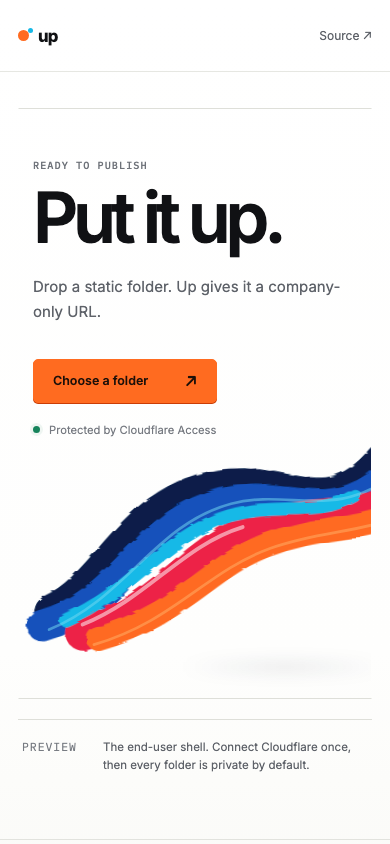
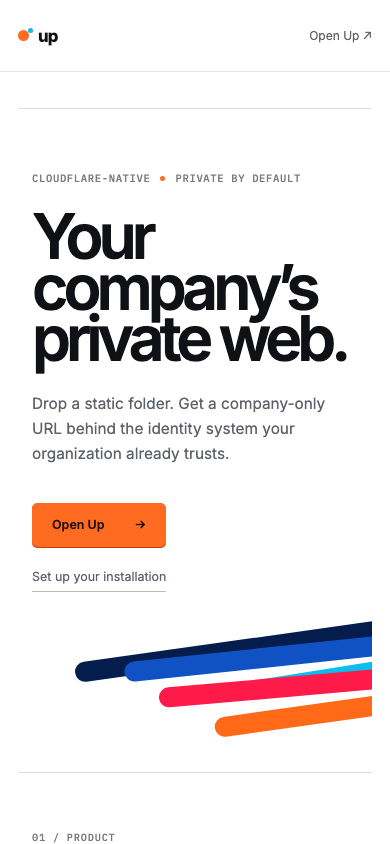
Restructure Up around product-first Diataxis documentation

diff --git a/src/site.svelte b/src/site.svelte
@@ -222,9 +222,9 @@
   <a class="wordmark" href="/" aria-label="Up home"><i aria-hidden="true"></i>up</a>
   <nav aria-label="Primary">
     {#if !isProduct}
-      <a href="/tutorial">Setup</a>
-      <a href="/explanation">Principles</a>
-      <a href="https://github.com/acoyfellow/inhouse">Source ↗</a>
+      <a href="/tutorial">Docs</a>
+      <a href="/explanation">How it works</a>
+      <a href="/app">Open Up ↗</a>
     {:else}
       <span class="identity"><i aria-hidden="true"></i>{identity}</span>
     {/if}
@@ -232,7 +232,67 @@
 </header>
 
 <main class:product={isProduct}>
-  {#if section === 'home' || section === 'app'}
+  {#if section === 'home'}
+    <div class="home-shell">
+      <section class="home-hero" aria-labelledby="home-title">
+        <div class="home-kicker"><span>Cloudflare-native</span><i aria-hidden="true"></i><span>Private by default</span></div>
+        <h1 id="home-title">Your company’s<br />private web.</h1>
+        <p class="home-tagline">Drop a static folder. Get a company-only URL behind the identity system your organization already trusts.</p>
+        <div class="home-actions">
+          <a class="primary link-button" href="/app">Open Up <span aria-hidden="true">→</span></a>
+          <a class="home-secondary" href="/tutorial">Set up your installation</a>
+        </div>
+        <div class="home-signal" aria-hidden="true">
+          <span class="signal-navy"></span><span class="signal-blue"></span><span class="signal-cyan"></span><span class="signal-red"></span><span class="signal-orange"></span>
+        </div>
+      </section>
+
+      <section class="home-intro" aria-labelledby="intro-title">
+        <p class="section-index">01 / PRODUCT</p>
+        <div>
+          <h2 id="intro-title">One installation.<br />Every small site.</h2>
+          <p>Up gives employees and agents one dependable place to publish prototypes, reports, demos, and internal tools. Files stay in private R2. Every request meets Cloudflare Access first.</p>
+        </div>
+      </section>
+
+      <section class="feature-grid" aria-label="Product capabilities">
+        <article><span>01</span><h3>Choose a folder</h3><p>HTML, CSS, JavaScript, and assets. No framework or build system required.</p></article>
+        <article><span>02</span><h3>Publish atomically</h3><p>Every digest is verified before a deployment becomes visible. Partial updates never leak.</p></article>
+        <article><span>03</span><h3>Share inside</h3><p>Each site receives a sibling hostname and inherits the organization’s Access boundary.</p></article>
+        <article><span>04</span><h3>Stay in control</h3><p>The Worker, Durable Object, R2 bucket, DNS, and Access app remain in your account.</p></article>
+      </section>
+
+      <section class="system-model" aria-labelledby="model-title">
+        <p class="section-index">02 / SYSTEM</p>
+        <div>
+          <h2 id="model-title">Folder to private URL.</h2>
+          <div class="model-flow" aria-label="Folder to private URL workflow">
+            <span>static folder</span><i>→</i><span>verified upload</span><i>→</i><span>private R2</span><i>→</i><span>Access URL</span>
+          </div>
+          <ol>
+            <li><strong>Connect</strong><span>Approve Up once in Cloudflare.</span></li>
+            <li><strong>Publish</strong><span>Choose a folder and name the site.</span></li>
+            <li><strong>Prove</strong><span>Verify authenticated content and anonymous denial.</span></li>
+          </ol>
+        </div>
+      </section>
+
+      <section class="docs-map" aria-labelledby="docs-title">
+        <div class="docs-map-heading"><div><p class="section-index">03 / DOCUMENTATION</p><h2 id="docs-title">Read for the job at hand.</h2></div><p>Up follows Diátaxis: learning, goals, information, and understanding stay distinct.</p></div>
+        <div class="docs-quadrants">
+          <a href="/tutorial"><span>LEARNING</span><strong>Tutorial</strong><p>Connect Cloudflare and publish a first private site.</p><i aria-hidden="true">01 →</i></a>
+          <a href="/how-to"><span>GOALS</span><strong>How-to guides</strong><p>Update, operate, verify, and respond safely.</p><i aria-hidden="true">02 →</i></a>
+          <a href="/reference"><span>INFORMATION</span><strong>Reference</strong><p>Routes, limits, bindings, headers, and exact contracts.</p><i aria-hidden="true">03 →</i></a>
+          <a href="/explanation"><span>UNDERSTANDING</span><strong>Explanation</strong><p>Why the Access boundary and atomic model matter.</p><i aria-hidden="true">04 →</i></a>
+        </div>
+      </section>
+
+      <section class="read-next" aria-labelledby="next-title">
+        <p class="section-index">WHAT TO READ NEXT</p>
+        <div><h2 id="next-title">Start with a first publish.</h2><a href="/tutorial">Your first Up site <span aria-hidden="true">→</span></a></div>
+      </section>
+    </div>
+  {:else if section === 'app'}
     <section class="workspace" aria-label="Up publisher">
       {#if view === 'empty'}
         <div
@@ -343,11 +403,19 @@
       {/if}
       <input bind:this={input} class="file-input" type="file" webkitdirectory multiple aria-label="Choose a static site folder" onchange={acceptInput} />
     </section>
-    {#if !isProduct}
-      <aside class="demo-note"><span>Preview</span><p>The end-user shell. Connect Cloudflare once, then every folder is private by default.</p></aside>
-    {/if}
   {:else}
-    <article class="doc">
+    <div class="docs-shell">
+      <aside class="docs-nav" aria-label="Documentation">
+        <p>Documentation</p>
+        <nav>
+          <a class:active={section === 'tutorial'} href="/tutorial"><span>01</span>Tutorial</a>
+          <a class:active={section === 'how-to'} href="/how-to"><span>02</span>How-to guides</a>
+          <a class:active={section === 'reference'} href="/reference"><span>03</span>Reference</a>
+          <a class:active={section === 'explanation'} href="/explanation"><span>04</span>Explanation</a>
+        </nav>
+        <div><span>Up 0.0.1</span><a href="/app">Open publisher →</a></div>
+      </aside>
+      <article class="doc">
       <p class="state-label">{eyebrow}</p>
       {#if section === 'tutorial'}
         <h1>Set up Up</h1><p class="summary">Connect your Cloudflare account once. Up provisions itself and the Access boundary on your behalf — no API tokens to mint.</p>
@@ -368,7 +436,8 @@ Publish the folder through Up.</code></pre><h2>Respond to exposure</h2><p>Disabl
       {:else}
         <h1>Page not found.</h1><p class="summary">The requested page does not exist.</p><a href="/">Return to Up</a>
       {/if}
-    </article>
+      </article>
+    </div>
   {/if}
 </main>
 
@@ -376,8 +445,8 @@ Publish the folder through Up.</code></pre><h2>Respond to exposure</h2><p>Disabl
 
 <style>
   :global(:root){color-scheme:light;--white:#fff;--canvas:#f7f7f5;--ink:#171717;--muted:#6b6b66;--quiet:#70706a;--line:#deded9;--line-dark:#c8c8c1;--orange:#f6821f;--orange-hover:#e87416;--blue:#2678a4;--green:#16835b;--red:#b83825;--sans:Inter,ui-sans-serif,system-ui,-apple-system,sans-serif;--mono:"IBM Plex Mono",ui-monospace,monospace}:global(*){box-sizing:border-box}:global(html){background:var(--white)}:global(body){min-width:320px;margin:0;background:var(--white);color:var(--ink);font-family:var(--sans);font-synthesis:none}:global(button),:global(input){font:inherit}:global(a){color:inherit}:global(code),:global(pre){font-family:var(--mono)}:global(::selection){background:#f6821f33}
-  header,main,footer{width:min(100%,1120px);margin-inline:auto;padding-inline:32px}header{height:68px;display:flex;align-items:center;border-bottom:1px solid var(--line)}.wordmark{font-size:.9rem;font-weight:700;letter-spacing:-.025em;text-decoration:none}header nav{display:flex;align-items:center;gap:24px;margin-left:auto;color:var(--muted);font-size:.72rem}header nav a{text-decoration:none}header nav a:hover{color:var(--ink)}header nav span{font-family:var(--mono);font-size:.64rem}main{min-height:calc(100vh - 130px);padding-top:72px;padding-bottom:100px}.workspace{min-height:560px;display:grid;align-items:center}.empty-state{max-width:520px;margin:auto;text-align:center;padding:80px 40px;border:1px solid transparent;transition:border-color .12s,background .12s}.empty-state.dragging{border-color:var(--orange);background:#fffaf5}.state-label{margin:0 0 14px;color:var(--quiet);font:500 .65rem/1 var(--mono);letter-spacing:.04em;text-transform:uppercase}.empty-state h1,.selected-view h1,.publishing-view h1,.success-view h1,.view-heading h1,.doc h1{margin:0;letter-spacing:-.045em}.empty-state h1{font-size:2rem;font-weight:600}.empty-copy>p:not(.state-label){margin:12px 0 28px;color:var(--muted);font-size:.95rem}.empty-state small{display:block;margin-top:18px;color:var(--quiet);font-size:.7rem}.primary,.secondary,.link-button{display:inline-flex;min-height:40px;align-items:center;justify-content:center;padding:0 16px;border:1px solid;border-radius:3px;font-size:.78rem;font-weight:600;text-decoration:none;cursor:pointer}.primary{border-color:var(--orange);background:var(--orange);color:#211005}.primary:hover{border-color:var(--orange-hover);background:var(--orange-hover)}.primary:disabled{opacity:.45;cursor:not-allowed}.secondary{border-color:var(--line-dark);background:var(--white);color:var(--ink)}.secondary:hover{border-color:var(--ink)}.small{min-height:34px;padding-inline:13px}.file-input{position:fixed;width:1px;height:1px;opacity:0;pointer-events:none}.demo-note{display:grid;grid-template-columns:60px 1fr;max-width:620px;margin:0 auto;padding-top:20px;border-top:1px solid var(--line);color:var(--muted);font-size:.72rem;line-height:1.6}.demo-note span{color:var(--quiet);font-family:var(--mono);text-transform:uppercase}.demo-note p{margin:0}.selected-view,.publishing-view,.success-view,.list-view{width:min(100%,720px);margin:auto}.back{margin-bottom:56px;padding:0;border:0;background:none;color:var(--muted);font-size:.75rem;cursor:pointer}.back:hover{color:var(--ink)}.selected-view h1,.publishing-view h1,.success-view h1,.view-heading h1{font-size:2rem;font-weight:600}.file-summary{margin:38px 0 44px;border-top:1px solid var(--line)}.file-summary div{display:grid;grid-template-columns:1fr 1fr;padding:14px 0;border-bottom:1px solid var(--line)}dt{color:var(--muted);font-size:.75rem}dd{margin:0;text-align:right;font:500 .72rem var(--mono)}dd.valid{color:var(--green)}.address{display:grid;gap:10px}.address>span{font-size:.72rem;font-weight:600}.address>div{display:flex;align-items:center;border:1px solid var(--line-dark);border-radius:3px;overflow:hidden}.address input{min-width:0;flex:1;height:44px;padding:0 12px;border:0;outline:none;font-family:var(--mono);font-size:.78rem}.address input:focus{box-shadow:inset 0 0 0 1px var(--blue)}.address em{padding-right:12px;color:var(--quiet);font:400 .7rem var(--mono);font-style:normal}.privacy{display:flex;align-items:center;gap:8px;margin:18px 0 50px;color:var(--muted);font-size:.72rem}.privacy i{width:7px;height:7px;border-radius:50%;background:var(--green)}.footer-actions{display:flex;justify-content:flex-end;gap:8px;padding-top:18px;border-top:1px solid var(--line)}.steps{margin:42px 0 34px}.steps div{display:flex;justify-content:space-between;padding:12px 0;border-bottom:1px solid var(--line);font-size:.78rem}.steps b{font:500 .68rem var(--mono)}.progress{height:2px;background:var(--line)}.progress i{display:block;height:100%;background:var(--orange);transition:width .2s}.progress-number{margin:9px 0 40px;text-align:right;color:var(--muted);font:500 .65rem var(--mono)}.publishing-view>small{color:var(--quiet);font-size:.72rem}.state-label.success{color:var(--green)}.published-url{display:block;margin:28px 0;color:var(--blue);font:500 .85rem var(--mono);text-decoration:none;word-break:break-all}.success-actions{display:flex;align-items:center;gap:22px}.text-link,.text-button{color:var(--blue);font-size:.76rem;text-decoration:none}.text-button{padding:0;border:0;background:none;cursor:pointer}.receipt{margin:52px 0 36px;border-top:1px solid var(--line)}.receipt div{display:flex;justify-content:space-between;padding:13px 0;border-bottom:1px solid var(--line)}.receipt dd{font-family:var(--sans)}.view-heading{display:flex;align-items:flex-end;justify-content:space-between;margin-bottom:42px}.site-list{border-top:1px solid var(--line)}.site-list article{display:grid;grid-template-columns:1fr auto;gap:20px;padding:20px 0;border-bottom:1px solid var(--line)}.site-list article>div{display:grid;gap:6px}.site-list article>div:last-child{text-align:right}.site-list strong{font-size:.85rem}.site-list code,.site-list span,.site-list small{color:var(--muted);font-size:.66rem}.doc{width:min(100%,720px);margin:auto}.doc h1{font-size:2.4rem;font-weight:600}.summary{max-width:620px;margin:16px 0 50px;color:var(--muted);font-size:1rem;line-height:1.65}.doc h2{margin:46px 0 12px;font-size:1rem}.doc p,.doc li{color:var(--muted);font-size:.83rem;line-height:1.7}.doc pre{margin:18px 0;padding:16px;border:1px solid var(--line);background:var(--canvas);overflow:auto;font-size:.72rem;line-height:1.7}.doc table{width:100%;border-collapse:collapse}.doc th,.doc td{padding:14px 8px;border-bottom:1px solid var(--line);text-align:left;font-size:.75rem}.doc th{width:52%;font-weight:500}.doc td{color:var(--muted)}footer{display:flex;align-items:center;min-height:62px;border-top:1px solid var(--line);color:var(--quiet);font:500 .62rem var(--mono)}footer nav{display:flex;gap:20px;margin-left:auto}footer a{text-decoration:none}
-  @media(max-width:700px){header,main,footer{padding-inline:20px}header nav a:not(:last-child){display:none}main{padding-top:38px}.workspace{min-height:510px}.empty-state{padding:60px 10px}.selected-view,.publishing-view,.success-view,.list-view{width:100%}.back{margin-bottom:38px}.address>div{display:grid}.address em{padding:0 12px 11px}.footer-actions{display:grid;grid-template-columns:1fr 1fr}.site-list article{grid-template-columns:1fr}.site-list article>div:last-child{text-align:left}.view-heading{align-items:flex-start}.demo-note{grid-template-columns:1fr;gap:5px}.doc h1{font-size:2rem}footer nav a:first-child{display:none}}
+  header,main,footer{width:min(100%,1120px);margin-inline:auto;padding-inline:32px}header{height:68px;display:flex;align-items:center;border-bottom:1px solid var(--line)}.wordmark{font-size:.9rem;font-weight:700;letter-spacing:-.025em;text-decoration:none}header nav{display:flex;align-items:center;gap:24px;margin-left:auto;color:var(--muted);font-size:.72rem}header nav a{text-decoration:none}header nav a:hover{color:var(--ink)}header nav span{font-family:var(--mono);font-size:.64rem}main{min-height:calc(100vh - 130px);padding-top:72px;padding-bottom:100px}.workspace{min-height:560px;display:grid;align-items:center}.empty-state{max-width:520px;margin:auto;text-align:center;padding:80px 40px;border:1px solid transparent;transition:border-color .12s,background .12s}.empty-state.dragging{border-color:var(--orange);background:#fffaf5}.state-label{margin:0 0 14px;color:var(--quiet);font:500 .65rem/1 var(--mono);letter-spacing:.04em;text-transform:uppercase}.empty-state h1,.selected-view h1,.publishing-view h1,.success-view h1,.view-heading h1,.doc h1{margin:0;letter-spacing:-.045em}.empty-state h1{font-size:2rem;font-weight:600}.empty-copy>p:not(.state-label){margin:12px 0 28px;color:var(--muted);font-size:.95rem}.empty-state small{display:block;margin-top:18px;color:var(--quiet);font-size:.7rem}.primary,.secondary,.link-button{display:inline-flex;min-height:40px;align-items:center;justify-content:center;padding:0 16px;border:1px solid;border-radius:3px;font-size:.78rem;font-weight:600;text-decoration:none;cursor:pointer}.primary{border-color:var(--orange);background:var(--orange);color:#211005}.primary:hover{border-color:var(--orange-hover);background:var(--orange-hover)}.primary:disabled{opacity:.45;cursor:not-allowed}.secondary{border-color:var(--line-dark);background:var(--white);color:var(--ink)}.secondary:hover{border-color:var(--ink)}.small{min-height:34px;padding-inline:13px}.file-input{position:fixed;width:1px;height:1px;opacity:0;pointer-events:none}.selected-view,.publishing-view,.success-view,.list-view{width:min(100%,720px);margin:auto}.back{margin-bottom:56px;padding:0;border:0;background:none;color:var(--muted);font-size:.75rem;cursor:pointer}.back:hover{color:var(--ink)}.selected-view h1,.publishing-view h1,.success-view h1,.view-heading h1{font-size:2rem;font-weight:600}.file-summary{margin:38px 0 44px;border-top:1px solid var(--line)}.file-summary div{display:grid;grid-template-columns:1fr 1fr;padding:14px 0;border-bottom:1px solid var(--line)}dt{color:var(--muted);font-size:.75rem}dd{margin:0;text-align:right;font:500 .72rem var(--mono)}dd.valid{color:var(--green)}.address{display:grid;gap:10px}.address>span{font-size:.72rem;font-weight:600}.address>div{display:flex;align-items:center;border:1px solid var(--line-dark);border-radius:3px;overflow:hidden}.address input{min-width:0;flex:1;height:44px;padding:0 12px;border:0;outline:none;font-family:var(--mono);font-size:.78rem}.address input:focus{box-shadow:inset 0 0 0 1px var(--blue)}.address em{padding-right:12px;color:var(--quiet);font:400 .7rem var(--mono);font-style:normal}.privacy{display:flex;align-items:center;gap:8px;margin:18px 0 50px;color:var(--muted);font-size:.72rem}.privacy i{width:7px;height:7px;border-radius:50%;background:var(--green)}.footer-actions{display:flex;justify-content:flex-end;gap:8px;padding-top:18px;border-top:1px solid var(--line)}.steps{margin:42px 0 34px}.steps div{display:flex;justify-content:space-between;padding:12px 0;border-bottom:1px solid var(--line);font-size:.78rem}.steps b{font:500 .68rem var(--mono)}.progress{height:2px;background:var(--line)}.progress i{display:block;height:100%;background:var(--orange);transition:width .2s}.progress-number{margin:9px 0 40px;text-align:right;color:var(--muted);font:500 .65rem var(--mono)}.publishing-view>small{color:var(--quiet);font-size:.72rem}.state-label.success{color:var(--green)}.published-url{display:block;margin:28px 0;color:var(--blue);font:500 .85rem var(--mono);text-decoration:none;word-break:break-all}.success-actions{display:flex;align-items:center;gap:22px}.text-link,.text-button{color:var(--blue);font-size:.76rem;text-decoration:none}.text-button{padding:0;border:0;background:none;cursor:pointer}.receipt{margin:52px 0 36px;border-top:1px solid var(--line)}.receipt div{display:flex;justify-content:space-between;padding:13px 0;border-bottom:1px solid var(--line)}.receipt dd{font-family:var(--sans)}.view-heading{display:flex;align-items:flex-end;justify-content:space-between;margin-bottom:42px}.site-list{border-top:1px solid var(--line)}.site-list article{display:grid;grid-template-columns:1fr auto;gap:20px;padding:20px 0;border-bottom:1px solid var(--line)}.site-list article>div{display:grid;gap:6px}.site-list article>div:last-child{text-align:right}.site-list strong{font-size:.85rem}.site-list code,.site-list span,.site-list small{color:var(--muted);font-size:.66rem}.doc{width:min(100%,720px);margin:auto}.doc h1{font-size:2.4rem;font-weight:600}.summary{max-width:620px;margin:16px 0 50px;color:var(--muted);font-size:1rem;line-height:1.65}.doc h2{margin:46px 0 12px;font-size:1rem}.doc p,.doc li{color:var(--muted);font-size:.83rem;line-height:1.7}.doc pre{margin:18px 0;padding:16px;border:1px solid var(--line);background:var(--canvas);overflow:auto;font-size:.72rem;line-height:1.7}.doc table{width:100%;border-collapse:collapse}.doc th,.doc td{padding:14px 8px;border-bottom:1px solid var(--line);text-align:left;font-size:.75rem}.doc th{width:52%;font-weight:500}.doc td{color:var(--muted)}footer{display:flex;align-items:center;min-height:62px;border-top:1px solid var(--line);color:var(--quiet);font:500 .62rem var(--mono)}footer nav{display:flex;gap:20px;margin-left:auto}footer a{text-decoration:none}
+  @media(max-width:700px){header,main,footer{padding-inline:20px}header nav a:not(:last-child){display:none}main{padding-top:38px}.workspace{min-height:510px}.empty-state{padding:60px 10px}.selected-view,.publishing-view,.success-view,.list-view{width:100%}.back{margin-bottom:38px}.address>div{display:grid}.address em{padding:0 12px 11px}.footer-actions{display:grid;grid-template-columns:1fr 1fr}.site-list article{grid-template-columns:1fr}.site-list article>div:last-child{text-align:left}.view-heading{align-items:flex-start}.doc h1{font-size:2rem}footer nav a:first-child{display:none}}
   /* Up — white-space-first institutional shell with one expressive brand gesture. */
   :global(:root){
     --white:#fff;
@@ -434,8 +503,6 @@ Publish the folder through Up.</code></pre><h2>Respond to exposure</h2><p>Disabl
   .choose{gap:36px;min-width:184px;justify-content:space-between}
   .choose span{font-size:1rem}
   .secondary{border-color:var(--line-dark)}
-  .demo-note{grid-template-columns:76px 1fr;max-width:760px;margin-top:20px;padding:18px 4px 0}
-  .demo-note span{letter-spacing:.08em}
   .selected-view,.publishing-view,.success-view,.list-view{width:min(100%,780px)}
   .selected-view,.publishing-view,.success-view{position:relative;padding-left:32px;border-left:3px solid var(--orange)}
   .back{margin-bottom:64px;font-family:var(--mono);font-size:.68rem}
@@ -477,6 +544,74 @@ Publish the folder through Up.</code></pre><h2>Respond to exposure</h2><p>Disabl
   .doc{width:min(100%,780px)}
   .doc h1{font-size:clamp(3rem,7vw,5.5rem);font-weight:610;line-height:.95;letter-spacing:-.065em}
   .summary{font-size:1.08rem}
+  /* Product front door: Unsurf-style clarity, organised around Diátaxis. */
+  .home-shell{width:min(100%,1120px);margin:auto}
+  .home-hero{position:relative;min-height:590px;padding:106px 42px 86px;border-block:1px solid var(--line);overflow:hidden}
+  .home-kicker{display:flex;align-items:center;gap:10px;color:var(--quiet);font:500 .66rem var(--mono);letter-spacing:.06em;text-transform:uppercase}
+  .home-kicker i{width:5px;height:5px;border-radius:50%;background:var(--orange)}
+  .home-hero h1{max-width:900px;margin:31px 0 26px;font-size:clamp(5.5rem,10vw,8.5rem);font-weight:610;line-height:.82;letter-spacing:-.08em}
+  .home-tagline{max-width:650px;margin:0;color:var(--muted);font-size:1.14rem;line-height:1.65}
+  .home-actions{display:flex;align-items:center;gap:28px;margin-top:36px}
+  .home-actions .primary{min-width:134px;justify-content:space-between;gap:28px}
+  .home-secondary{color:var(--muted);font-size:.78rem;text-decoration:none;border-bottom:1px solid var(--line-dark);padding-block:10px 7px}
+  .home-secondary:hover{color:var(--ink);border-color:var(--ink)}
+  .home-signal{position:absolute;right:-26px;bottom:39px;width:470px;height:106px;transform:rotate(-7deg)}
+  .home-signal span{position:absolute;right:0;height:20px;border-radius:999px;transform-origin:right center;filter:saturate(1.08)}
+  .signal-navy{top:0;width:94%;background:var(--navy);transform:rotate(-1deg)}
+  .signal-blue{top:19px;width:83%;background:#1451bb;transform:rotate(1deg)}
+  .signal-cyan{top:38px;width:68%;height:12px!important;background:var(--cyan);transform:rotate(-2deg)}
+  .signal-red{top:54px;width:76%;background:#f21f49;transform:rotate(2deg)}
+  .signal-orange{top:74px;width:64%;background:var(--orange);transform:rotate(-1deg)}
+  .section-index{margin:0;color:var(--quiet);font:500 .64rem var(--mono);letter-spacing:.08em}
+  .home-intro,.system-model,.read-next{display:grid;grid-template-columns:220px 1fr;padding:98px 42px;border-bottom:1px solid var(--line)}
+  .home-intro h2,.system-model h2,.docs-map h2,.read-next h2{margin:0;font-size:clamp(2.7rem,5vw,4.9rem);font-weight:610;line-height:.96;letter-spacing:-.06em}
+  .home-intro>div>p{max-width:680px;margin:34px 0 0;color:var(--muted);font-size:1.02rem;line-height:1.75}
+  .feature-grid{display:grid;grid-template-columns:repeat(4,1fr);border-bottom:1px solid var(--line)}
+  .feature-grid article{min-height:250px;padding:29px 27px;border-right:1px solid var(--line)}
+  .feature-grid article:last-child{border-right:0}
+  .feature-grid article>span{color:var(--orange);font:500 .63rem var(--mono)}
+  .feature-grid h3{margin:72px 0 13px;font-size:1rem;letter-spacing:-.025em}
+  .feature-grid p{margin:0;color:var(--muted);font-size:.77rem;line-height:1.65}
+  .system-model>div{min-width:0}
+  .model-flow{display:flex;align-items:center;gap:12px;margin:42px 0;padding:20px 0;border-block:1px solid var(--line);overflow:auto;white-space:nowrap}
+  .model-flow span{padding:9px 12px;border:1px solid var(--line);border-radius:4px;background:#fff;font:500 .69rem var(--mono)}
+  .model-flow i{color:var(--orange);font-style:normal}
+  .system-model ol{list-style:none;margin:0;padding:0;border-top:1px solid var(--line)}
+  .system-model li{display:grid;grid-template-columns:120px 1fr;padding:14px 0;border-bottom:1px solid var(--line);font-size:.78rem}
+  .system-model li span{color:var(--muted)}
+  .docs-map{padding:98px 42px;border-bottom:1px solid var(--line)}
+  .docs-map-heading{display:grid;grid-template-columns:1.3fr .7fr;align-items:end;gap:50px;margin-bottom:54px}
+  .docs-map-heading .section-index{margin-bottom:20px}
+  .docs-map-heading>p{max-width:350px;margin:0;color:var(--muted);font-size:.81rem;line-height:1.7}
+  .docs-quadrants{display:grid;grid-template-columns:1fr 1fr;border:1px solid var(--line-dark)}
+  .docs-quadrants a{position:relative;min-height:250px;padding:27px 30px;color:var(--ink);text-decoration:none;border-right:1px solid var(--line);border-bottom:1px solid var(--line);transition:background .14s ease}
+  .docs-quadrants a:nth-child(2n){border-right:0}
+  .docs-quadrants a:nth-child(n+3){border-bottom:0}
+  .docs-quadrants a:hover{background:#f7f7f3}
+  .docs-quadrants a>span{color:var(--orange);font:500 .62rem var(--mono);letter-spacing:.08em}
+  .docs-quadrants strong{display:block;margin-top:68px;font-size:1.65rem;letter-spacing:-.045em}
+  .docs-quadrants p{max-width:350px;margin:11px 0 0;color:var(--muted);font-size:.76rem;line-height:1.6}
+  .docs-quadrants i{position:absolute;top:27px;right:28px;color:var(--quiet);font:500 .63rem var(--mono);font-style:normal}
+  .read-next{padding-block:72px 84px}
+  .read-next>div{display:flex;align-items:flex-end;justify-content:space-between;gap:30px}
+  .read-next h2{font-size:clamp(2.4rem,4vw,3.8rem)}
+  .read-next a{display:flex;min-width:210px;justify-content:space-between;padding:15px 0;color:var(--ink);font-size:.78rem;text-decoration:none;border-bottom:1px solid var(--ink)}
+  /* Persistent documentation frame inspired by Diátaxis' task-first map. */
+  .docs-shell{display:grid;grid-template-columns:220px minmax(0,780px);gap:82px;width:min(100%,1082px);margin:auto;align-items:start}
+  .docs-nav{position:sticky;top:28px;min-height:560px;padding-right:26px;border-right:1px solid var(--line)}
+  .docs-nav>p{margin:0 0 24px;color:var(--quiet);font:500 .62rem var(--mono);letter-spacing:.08em;text-transform:uppercase}
+  .docs-nav nav{display:grid}
+  .docs-nav nav a{display:grid;grid-template-columns:28px 1fr;padding:12px 8px;color:var(--muted);font-size:.76rem;text-decoration:none;border-bottom:1px solid var(--line)}
+  .docs-nav nav a span{color:var(--quiet);font:500 .57rem var(--mono)}
+  .docs-nav nav a:hover,.docs-nav nav a.active{color:var(--ink);background:#f7f7f3}
+  .docs-nav nav a.active{box-shadow:inset 2px 0 var(--orange)}
+  .docs-nav>div{display:grid;gap:8px;margin-top:32px;padding:14px 8px;border-top:1px solid var(--line);font:500 .62rem var(--mono)}
+  .docs-nav>div span{color:var(--quiet)}
+  .docs-nav>div a{color:var(--blue);text-decoration:none}
+  .docs-shell .doc{width:100%;margin:0;padding-bottom:80px}
+  .docs-shell .doc>h1{max-width:760px}
+  .docs-shell .doc .summary{border-bottom:1px solid var(--line);padding-bottom:42px}
+  .docs-shell .doc h2{margin-top:58px;padding-top:17px;border-top:1px solid var(--line);font-size:1.05rem}
   footer{min-height:68px;border-color:#e2e3de}
   @media(max-width:820px){
     header,main,footer{padding-inline:24px}
@@ -490,6 +625,20 @@ Publish the folder through Up.</code></pre><h2>Respond to exposure</h2><p>Disabl
     .file-summary div,.file-summary div:first-child{min-height:58px;flex-direction:row;align-items:center;padding:13px 0;border-right:0;border-bottom:1px solid var(--line)}
     .file-summary div:last-child{border-bottom:0}
     .selected-view,.publishing-view,.success-view{padding-left:20px}
+    .home-hero{min-height:640px;padding:78px 28px 190px}
+    .home-hero h1{font-size:clamp(4.8rem,15vw,7rem)}
+    .home-signal{right:-60px;bottom:42px;width:430px}
+    .home-intro,.system-model,.read-next{grid-template-columns:1fr;gap:32px;padding:72px 28px}
+    .feature-grid{grid-template-columns:1fr 1fr}
+    .feature-grid article:nth-child(2){border-right:0}
+    .feature-grid article:nth-child(-n+2){border-bottom:1px solid var(--line)}
+    .docs-map{padding:72px 28px}
+    .docs-map-heading{grid-template-columns:1fr;gap:28px}
+    .docs-shell{grid-template-columns:1fr;gap:42px}
+    .docs-nav{position:static;min-height:0;padding:0;border-right:0;border-bottom:1px solid var(--line)}
+    .docs-nav nav{grid-template-columns:1fr 1fr}
+    .docs-nav nav a:nth-child(odd){border-right:1px solid var(--line)}
+    .docs-nav>div{display:none}
   }
   @media(max-width:560px){
     header,main,footer{padding-inline:18px}
@@ -508,6 +657,25 @@ Publish the folder through Up.</code></pre><h2>Respond to exposure</h2><p>Disabl
     .footer-actions{grid-template-columns:1fr 1.4fr}
     .footer-actions>*{width:100%}
     .identity{max-width:170px;overflow:hidden;text-overflow:ellipsis;white-space:nowrap}
+    .home-hero{min-height:600px;padding:62px 14px 180px}
+    .home-hero h1{margin-top:26px;font-size:clamp(3.45rem,16vw,4.5rem)}
+    .home-tagline{font-size:.96rem}
+    .home-actions{align-items:flex-start;flex-direction:column;gap:12px}
+    .home-signal{right:-120px;bottom:34px;width:440px}
+    .home-intro,.system-model,.read-next{padding:58px 14px}
+    .feature-grid{grid-template-columns:1fr}
+    .feature-grid article{min-height:205px;border-right:0;border-bottom:1px solid var(--line)}
+    .feature-grid article:nth-child(n){border-right:0;border-bottom:1px solid var(--line)}
+    .feature-grid article:last-child{border-bottom:0}
+    .feature-grid h3{margin-top:50px}
+    .docs-map{padding:58px 14px}
+    .docs-quadrants{grid-template-columns:1fr}
+    .docs-quadrants a:nth-child(n){min-height:220px;border-right:0;border-bottom:1px solid var(--line)}
+    .docs-quadrants a:last-child{border-bottom:0}
+    .read-next>div{align-items:flex-start;flex-direction:column}
+    .docs-nav nav{grid-template-columns:1fr}
+    .docs-nav nav a:nth-child(odd){border-right:0}
+    .docs-shell .doc h1{font-size:3rem}
     footer nav a:first-child{display:none}
   }
   @media(prefers-reduced-motion:reduce){:global(*){transition:none!important}.brand-stroke svg{transform:none}}